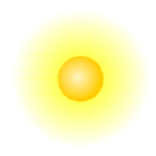
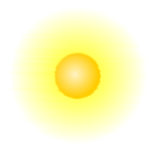
Removed bin folder & changed sun and gloss

Changed region(s): [[0.3467, 0.3733, 0.6933, 0.6667], [0.4533, 0.3467, 0.5867, 0.3733], [0.3733, 0.4267, 0.4, 0.4533]]

diff --git a/src/com/ravensprie/ld28/Main.java b/src/com/ravensprie/ld28/Main.java
@@ -97,11 +97,11 @@ public class Main extends Canvas implements Runnable, KeyListener, MouseMotionLi
 	private boolean isBut2Pressed = false;
 	private boolean isBut3Pressed = false;
 	private boolean isBut4Pressed = false;
-	private boolean can1 = true;
-	private boolean can2 = true;
-	private boolean can3 = true;
-	private boolean can4 = true;
-	private boolean can5 = true;
+	private boolean can1 = false; //Population
+	private boolean can2 = false; //Resources
+	private boolean can3 = false; //Pollution
+	private boolean can4 = false; //Water
+	private boolean can5 = false; //Temp
 
 	private long lastTimer;
 	
@@ -369,8 +369,9 @@ public class Main extends Canvas implements Runnable, KeyListener, MouseMotionLi
 				g.setColor(Color.BLACK);
 				g.drawString("" + actTemp, 556, 468); //pollution num
 
-				g.drawImage(sprtGloss, 0, 448, this); //Panel Gloss
-				
+				for(int q=0;q<=WIDTH;q++){ //Draws gloss the width of the panel
+					g.drawImage(sprtGloss, q, 448, this); //Panel Gloss
+				}
 				g.drawImage(earth.sprt1, earth.getX(), earth.getY(), this); //Earth sprite
 				g.drawImage(earth.sprt2, earth.getX(), earth.getY(), this); //Earth sprite
 				g.drawImage(earth.sprt3, earth.getX(), earth.getY(), this); //Earth sprite
